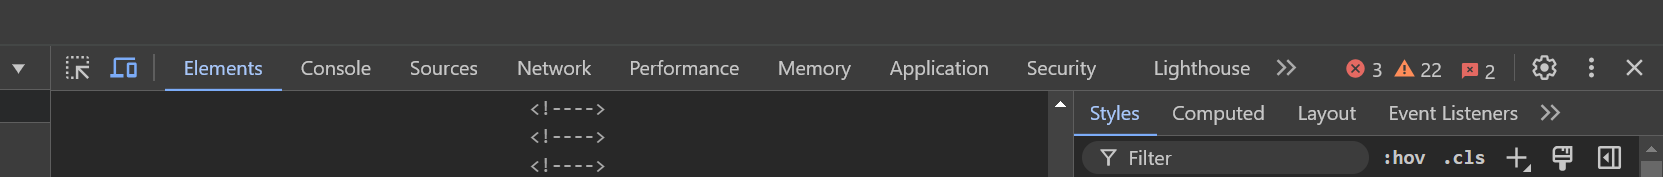
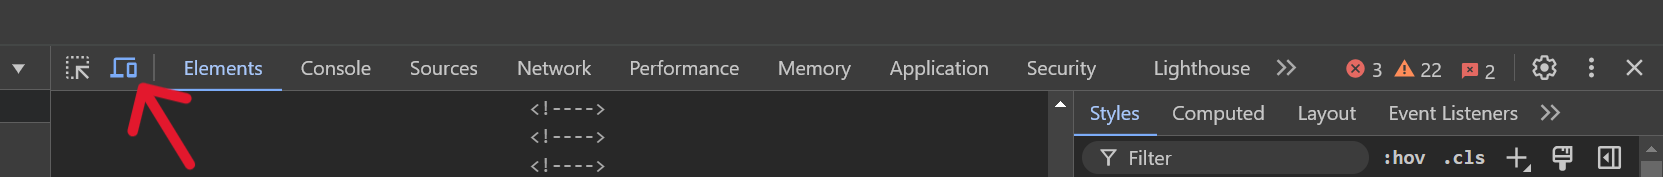
Changed the other Instructions

Changed region(s): [[0.0613, 0.452, 0.1227, 0.9605]]

diff --git a/docs/VN-procedure.md b/docs/VN-procedure.md
@@ -1,7 +1,24 @@
-# Export the test result Voucher Network
+# How to Perform Sovendus Integration Tests
 
-1. Navigate to a page where the Sovendus integration should be (e.g. order success page)
-2. If there is a trace of our integration, you should see the Sovendus self test overlay and a report of the current integration status.
-3. To copy the test result to your clipboard, click on the Sovendus icon on the top right and then click on "Copy Test Result"
+1. Install the Sovendus Self-Test Extension by following the provided instructions.
+2. Perform two tests: one on Desktop Chrome and one on Mobile Chrome, following the instructions below.
 
-![VN-image](https://raw.githubusercontent.com/Sovendus-GmbH/Sovendus-Integration-Selftester-Browser-Plugin/main/docs/vouchernetwork.jpg)
+# How to Perform a Test on Desktop Chrome
+
+1. Place a order on your Store in the normal Chrome browser.
+2. If we are integrated, there should be a banner of sovendus anywhere on the checkout page and our self test overlay would be opened, it shows all order, consumer and integration information.
+3. Now check all Values in the self test overlay, if the values are the same like in the order and no errors/warnings from the test overlay will be shown, you can send a screenshot of the page to your Account Manager per mail.
+4. To copy the test result to your clipboard, click on the Sovendus icon on the top right (If you can't see the Sovendus icon, click on the puzzle) and then click on "Copy Test Result", now wait and don't click out of the browser till the button change the color to green. This will create the screenshot for the Account Manager, then you can just navigate to your mail program and paste the screenshot in the mail using "ctrl + v" on your keyboard.
+
+# How to Perform a Test on Mobile Chrome
+
+1. Right-click on a random spot on the website and select "Inspect."
+2. A pop-up should appear. In the top left corner of this pop-up, there should be an icon that looks like a notebook with a phone in front of it. Click on this icon. ![Mobile symbol image](https://raw.githubusercontent.com/Sovendus-GmbH/Sovendus-Integration-Selftester-Browser-Plugin/main/docs/Mobilesymbol-image.png)
+3. The size of your page should now change. After that, click on "Dimensions: ..." at the top of your page and choose "iPhone 14 Pro Max."
+4. After setting up the mobile mode, place another order on your store using the mobile platform.
+5. If we are integrated, a Sovendus banner should appear somewhere on the checkout page, and our self-test overlay will open. This overlay displays all order, consumer, and integration information.
+6. Now, check all values in the self-test overlay. If the values match the order details and no errors or warnings are shown, you can send a screenshot of the page to your Account Manager via email.
+7. To copy the test result to your clipboard, click on the Sovendus icon in the top right corner (If you can't see the Sovendus icon, click on the puzzle icon) and then click on "Copy Test Result." Wait until the button changes color to green before clicking outside of the browser. This will create the screenshot for the Account Manager. You can then navigate to your email program and paste the screenshot into the email using "Ctrl + V" on your keyboard.
+
+## All the values displayed in the screenshot should also be present in your test result.
+![VN-image](https://raw.githubusercontent.com/Sovendus-GmbH/Sovendus-Integration-Selftester-Browser-Plugin/main/docs/VoucherNetwork.png)

diff --git a/docs/VN-CB-procedure.md b/docs/VN-CB-procedure.md
@@ -1,7 +1,24 @@
-# Export the test result BOTH
+# How to Perform Sovendus Integration Tests
 
-1. Navigate to a page where the Sovendus integration should be (e.g. order success page)
-2. If there is a trace of our integration, you should see the Sovendus selftest overlay and a report of the current integration status.
-3. To copy the test result to your clipboard, click on the Sovendus icon on the top right and then click on "Copy Test Result"
+1. Install the Sovendus Self-Test Extension by following the provided instructions.
+2. Perform two tests: one on Desktop Chrome and one on Mobile Chrome, following the instructions below.
 
-![vn&cb-image](https://raw.githubusercontent.com/Sovendus-GmbH/Sovendus-Integration-Selftester-Browser-Plugin/main/docs/vn&cb.jpg)
+# How to Perform a Test on Desktop Chrome
+
+1. Place a order on your Store in the normal Chrome browser.
+2. If we are integrated, there should be a banner of sovendus anywhere on the checkout page and our self test overlay would be opened, it shows all order, consumer and integration information.
+3. Now check all Values in the self test overlay, if the values are the same like in the order and no errors/warnings from the test overlay will be shown, you can send a screenshot of the page to your Account Manager per mail.
+4. To copy the test result to your clipboard, click on the Sovendus icon on the top right (If you can't see the Sovendus icon, click on the puzzle) and then click on "Copy Test Result", now wait and don't click out of the browser till the button change the color to green. This will create the screenshot for the Account Manager, then you can just navigate to your mail program and paste the screenshot in the mail using "ctrl + v" on your keyboard.
+
+# How to Perform a Test on Mobile Chrome
+
+1. Right-click on a random spot on the website and select "Inspect."
+2. A pop-up should appear. In the top left corner of this pop-up, there should be an icon that looks like a notebook with a phone in front of it. Click on this icon. ![Mobile symbol image](https://raw.githubusercontent.com/Sovendus-GmbH/Sovendus-Integration-Selftester-Browser-Plugin/main/docs/Mobilesymbol-image.png)
+3. The size of your page should now change. After that, click on "Dimensions: ..." at the top of your page and choose "iPhone 14 Pro Max."
+4. After setting up the mobile mode, place another order on your store using the mobile platform.
+5. If we are integrated, a Sovendus banner should appear somewhere on the checkout page, and our self-test overlay will open. This overlay displays all order, consumer, and integration information.
+6. Now, check all values in the self-test overlay. If the values match the order details and no errors or warnings are shown, you can send a screenshot of the page to your Account Manager via email.
+7. To copy the test result to your clipboard, click on the Sovendus icon in the top right corner (If you can't see the Sovendus icon, click on the puzzle icon) and then click on "Copy Test Result." Wait until the button changes color to green before clicking outside of the browser. This will create the screenshot for the Account Manager. You can then navigate to your email program and paste the screenshot into the email using "Ctrl + V" on your keyboard.
+
+## All the values displayed in the screenshot should also be present in your test result.
+![vn&cb-image](https://raw.githubusercontent.com/Sovendus-GmbH/Sovendus-Integration-Selftester-Browser-Plugin/main/docs/VN&CB.png)

diff --git a/docs/CB-procedure.md b/docs/CB-procedure.md
@@ -1,4 +1,9 @@
-# How to Perform a Test on Desktop Chrome
+# How to Perform Sovendus Integration Tests
+
+1. Install the Sovendus Self-Test Extension by following the provided instructions.
+2. Perform two tests: one on Desktop Chrome and one on Mobile Chrome, following the instructions below.
+
+## How to Perform a Test on Desktop Chrome
 
 1. Place an order on your Store in the with the Chrome browser (on Linux, Mac or Windows).
 2. If there is a trace of our integration, the self test overlay will be opened automatically on the page, it will show all order, consumer and integration information.
@@ -7,7 +12,7 @@
 5. Repeat the steps above until all errors are resolved and then send the test result to your account manager as described below.
 6. To copy the test result to your clipboard, click on the Sovendus icon on the top right (If you can't see the Sovendus icon, click on the puzzle icon) and then click on "Copy Test Result", now wait and don't click out of the browser until the button changes the color to green. This will create a screenshot of the page including all information about the integration for your account manager, then you can just navigate to your mail program and paste the screenshot in the mail using "ctrl + v" on your keyboard (or right click and then paste).
 
-# How to Perform a Test on Mobile Chrome
+## How to Perform a Test on Mobile Chrome
 
 1. Right-click on a random spot on the website and select "Inspect."
 2. A pop-up should appear. In the top left corner of this pop-up, there should be an icon that looks like a notebook with a phone in front of it. Click on this icon. ![Mobile symbol image](https://raw.githubusercontent.com/Sovendus-GmbH/Sovendus-Integration-Selftester-Browser-Plugin/main/docs/Mobilesymbol-image.png)
@@ -21,4 +26,4 @@
 
 ## The optimal result for your integration looks like this (note that some values are not required for checkout benefits)
 
-![CB image](https://raw.githubusercontent.com/Sovendus-GmbH/Sovendus-Integration-Selftester-Browser-Plugin/main/docs/checkoutbenefits.jpg)
+![CB image](https://raw.githubusercontent.com/Sovendus-GmbH/Sovendus-Integration-Selftester-Browser-Plugin/main/docs/CheckoutBenefits.png)
